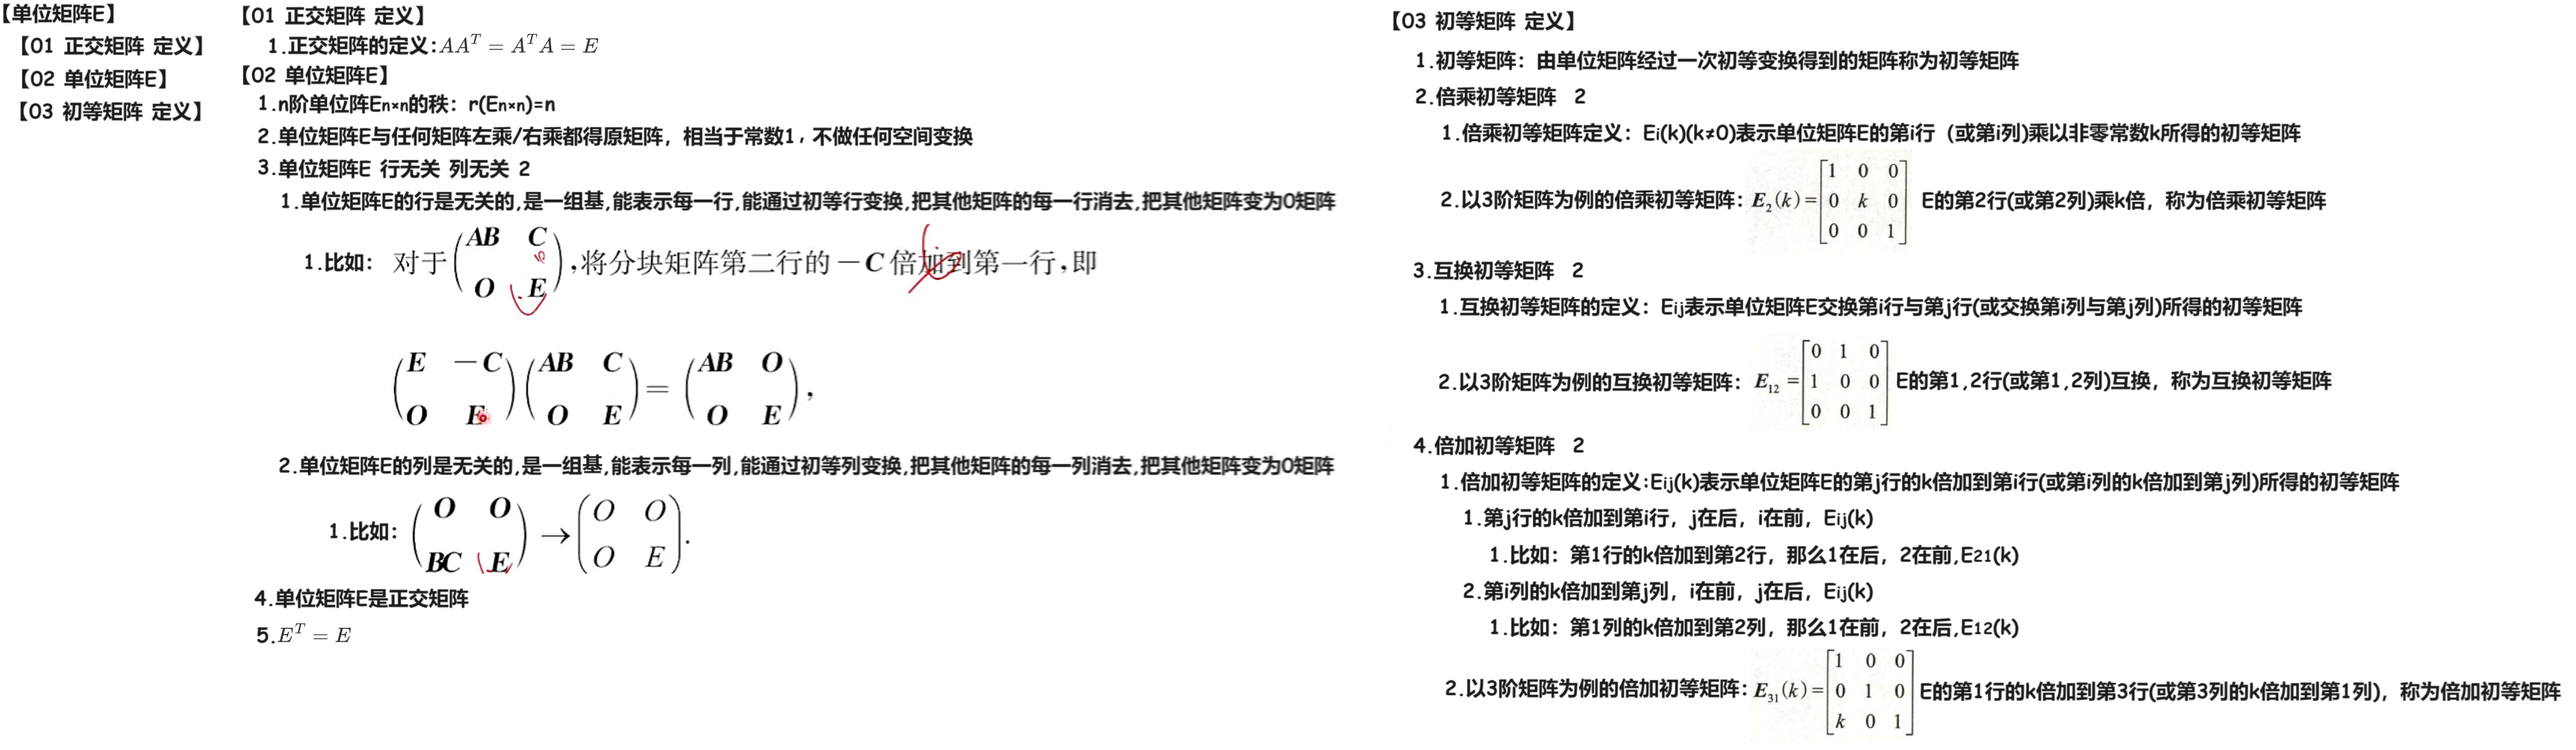
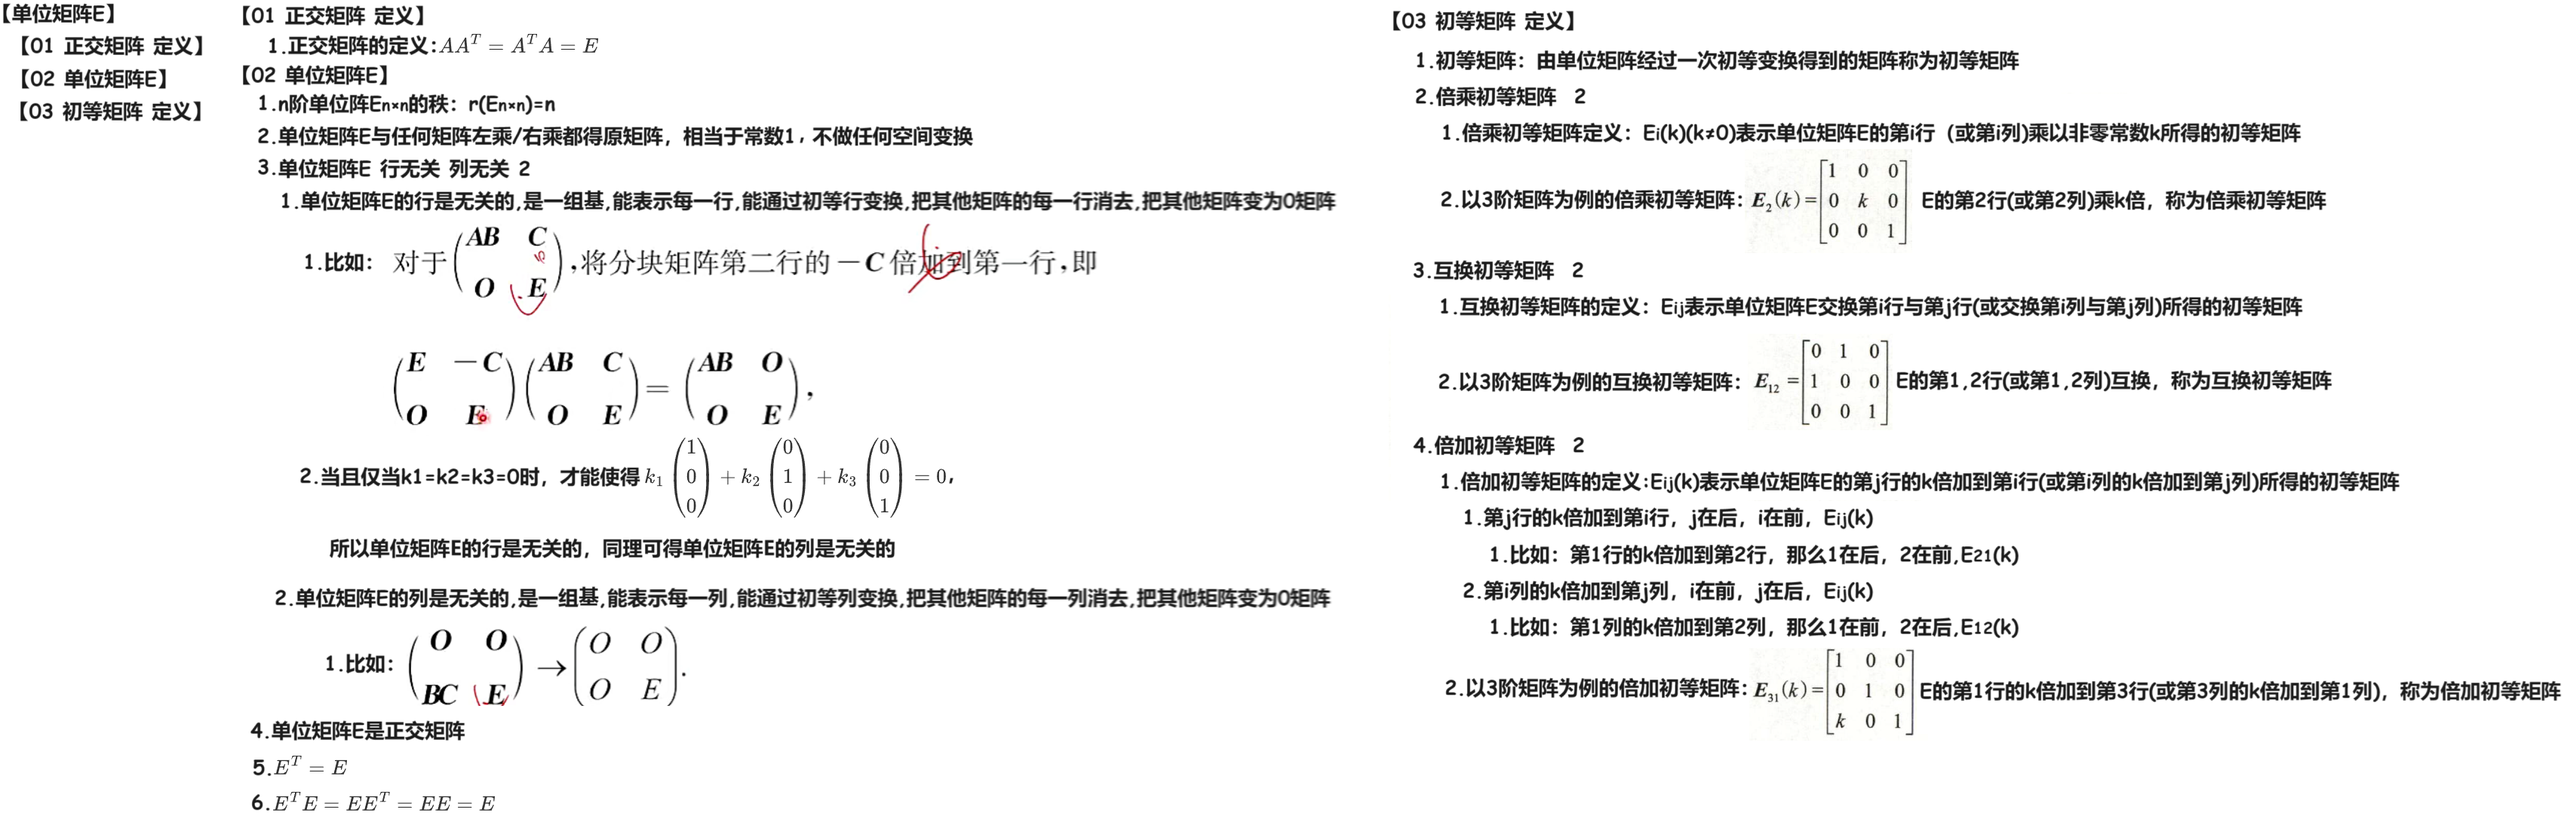
240308

diff --git a/02 线代/02 知识点/14 单位矩阵E 240308/02 Doc.md b/02 线代/02 知识点/14 单位矩阵E 240308/02 Doc.md
@@ -1,3 +1,3 @@
 # 单位矩阵E
 
-<img src="https://cvp.oss-cn-shanghai.aliyuncs.com/picgo/202403080917403.png" alt="image-20240308091746153" style="zoom:50%;" />
+<img src="https://cvp.oss-cn-shanghai.aliyuncs.com/picgo/202403080946826.png" style="zoom:50%;" />

diff --git a/02 线代/02 知识点/08 向量 线性相关 线性无关 240308/02 Doc.md b/02 线代/02 知识点/08 向量 线性相关 线性无关 240308/02 Doc.md
@@ -1,0 +1,3 @@
+#  向量 线性相关 线性无关
+
+<img src="https://cvp.oss-cn-shanghai.aliyuncs.com/picgo/202403080942788.png" style="zoom:50%;" />
